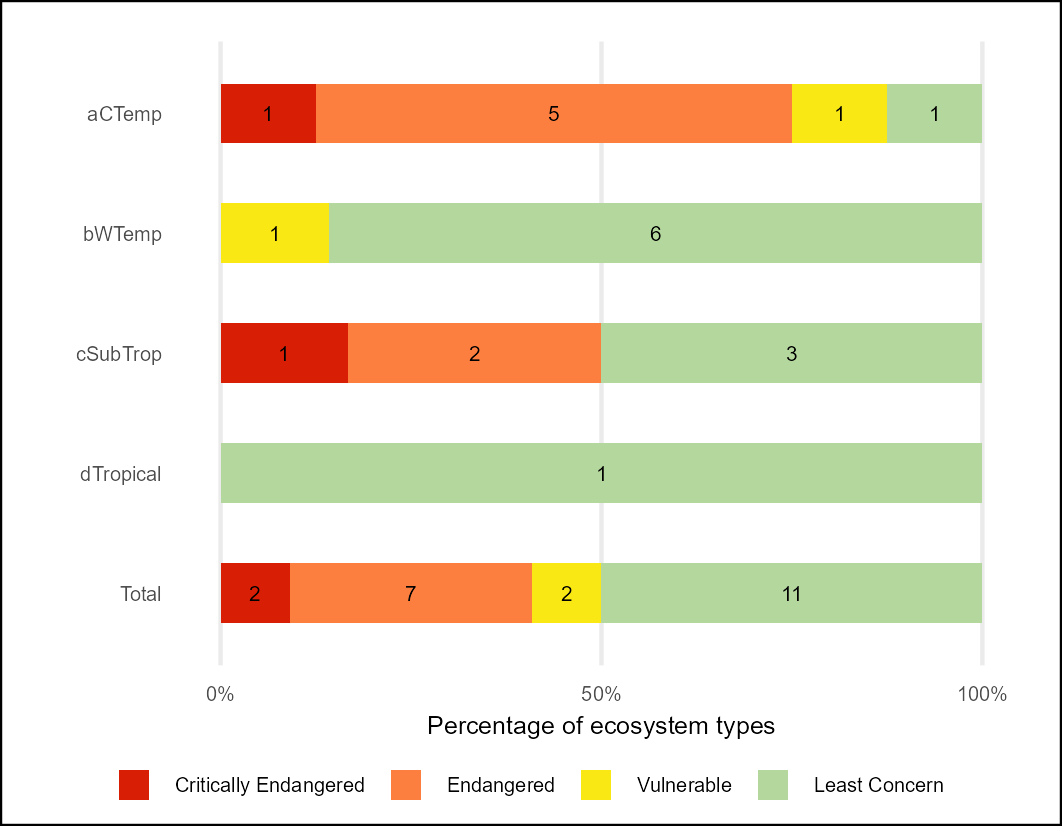
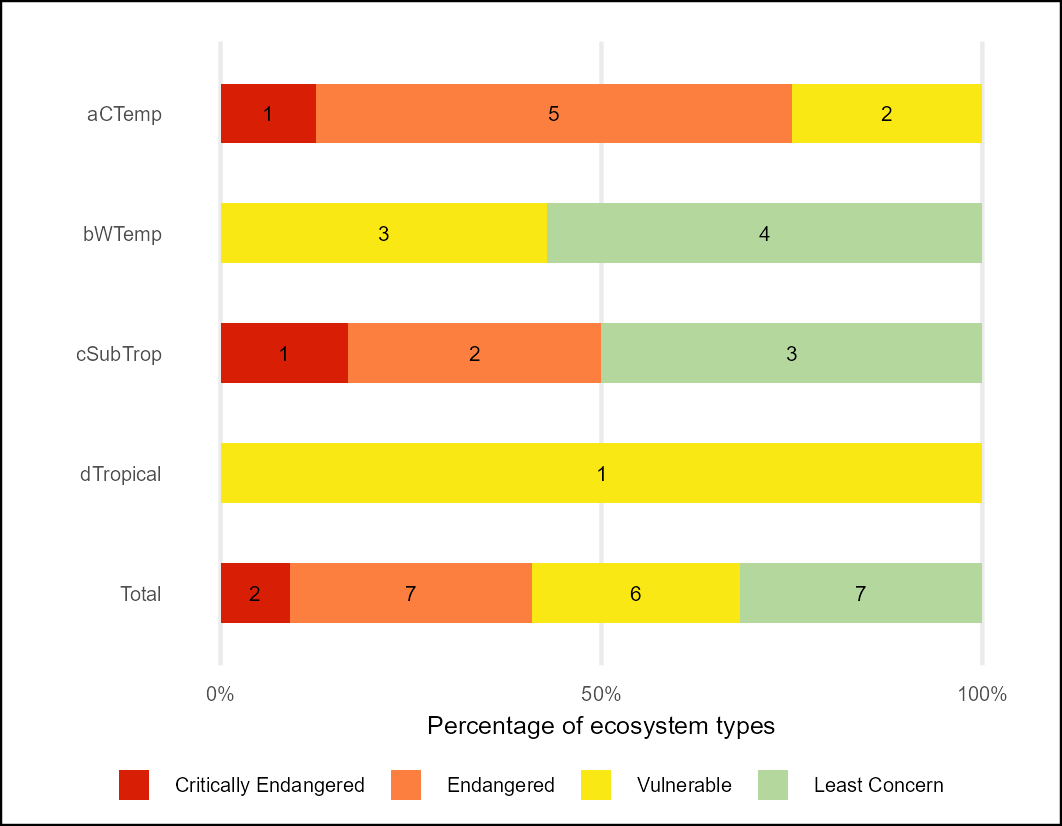
updated rle

diff --git a/README.md b/README.md
@@ -30,7 +30,7 @@ Estuarine Condition (Health) scores (0-100) are assigned to Present Ecological S
 
 -   Criterion B1aii was applied using EOO calculations with ongoing decline defined as a decline in the extent of good/moderate condition estuarine extent (PES Classes A, B, C) from the previous PES assessment period.
 
--   Criterion B3.........to be completed
+-   Criterion B3 was applied to the estuary types that occur at 5 or fewer locations - and for which there is ongoing decline
 
 -   Criterion D3 was applied to the Estuarine Ecological State Class (PES) data such that severity of biotic disruption of \>= 90% was assumed for PES classes E-F; Severity \>=70% was assigned to PES classes D-F; Severity \>=50% was assigned to PES classes C-F. Each of the 22 estuary ecosystem types were assigned to one of the four risk categories: Critically Endangered, Endangered, Vulnerable and Least Concern. The highest risk category for these two criteria is selected as the threat / risk status for each river type.
 
@@ -43,7 +43,7 @@ Summary table - count of estuarine ecosystem types per biogeographic zone per RL
 Summary table - extent of estuarine ecosystem per biogeographic zone per RLE category [rle24_est_sum_ext.csv](outputs/rle24_est_sum_ext.csv)
 
 | RLE - count of types per category | RLE - extent of types per category |
-|----|----|
+|------------------------------------|------------------------------------|
 | ![](outputs/rle24_est_barplot_count.png) | ![](outputs/rle24_est_barplot_ext.png) |
 
 **RLE Index**
@@ -51,7 +51,7 @@ Summary table - extent of estuarine ecosystem per biogeographic zone per RLE cat
 Reflecting changes in ecosystem RLE between 2018 and 2024
 
 | RLIE |   |
-|----|----|
+|------------------------------------|------------------------------------|
 | ![](outputs/rlie_est_line_plot.png) | Red List Index of Ecosystems between 2018 and 2024 |
 
 **Combined RLE and EPL results**
